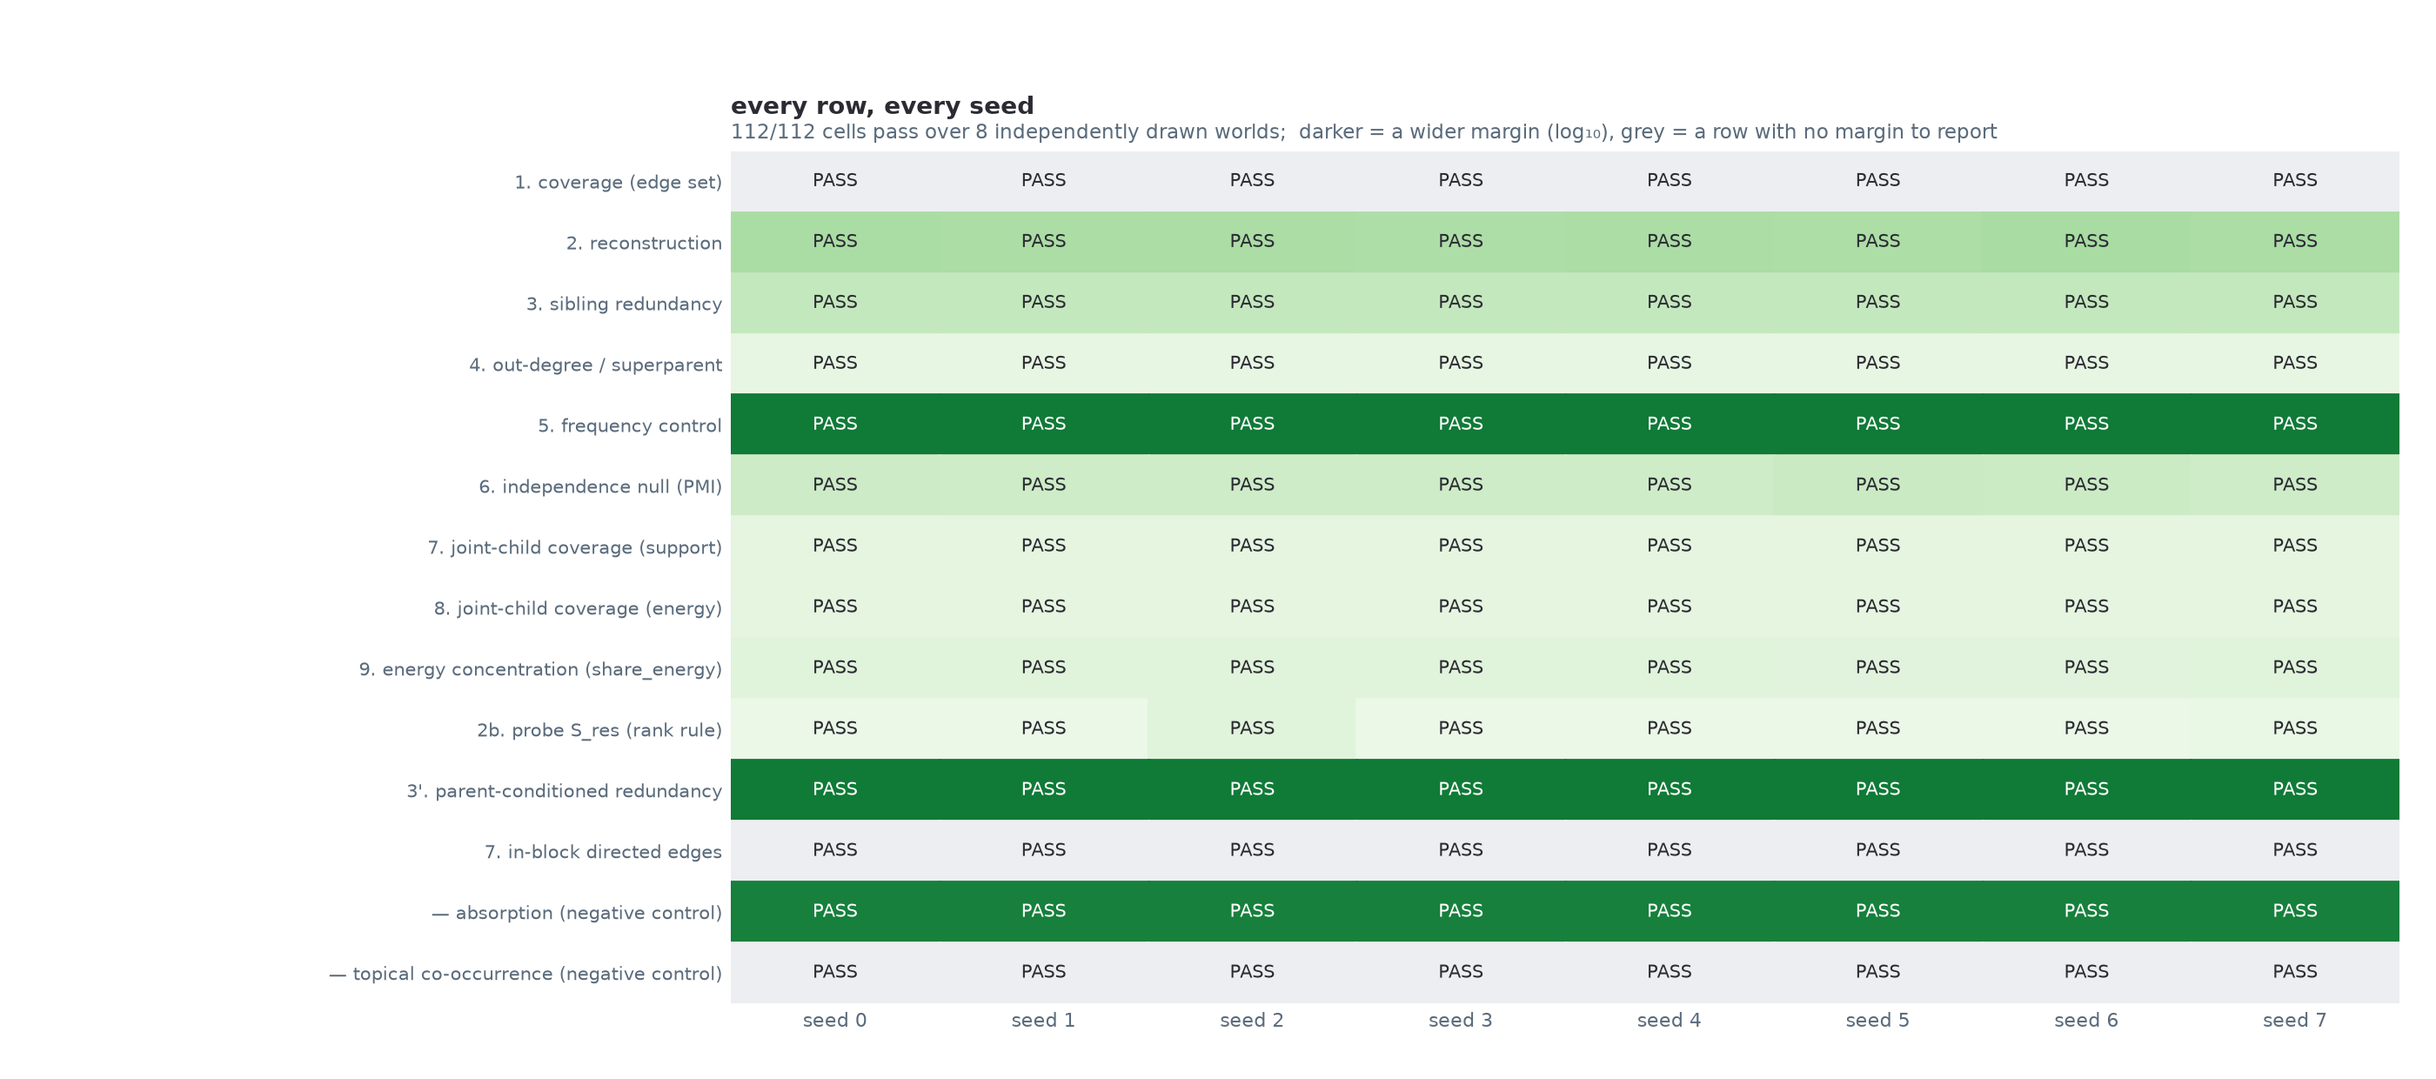
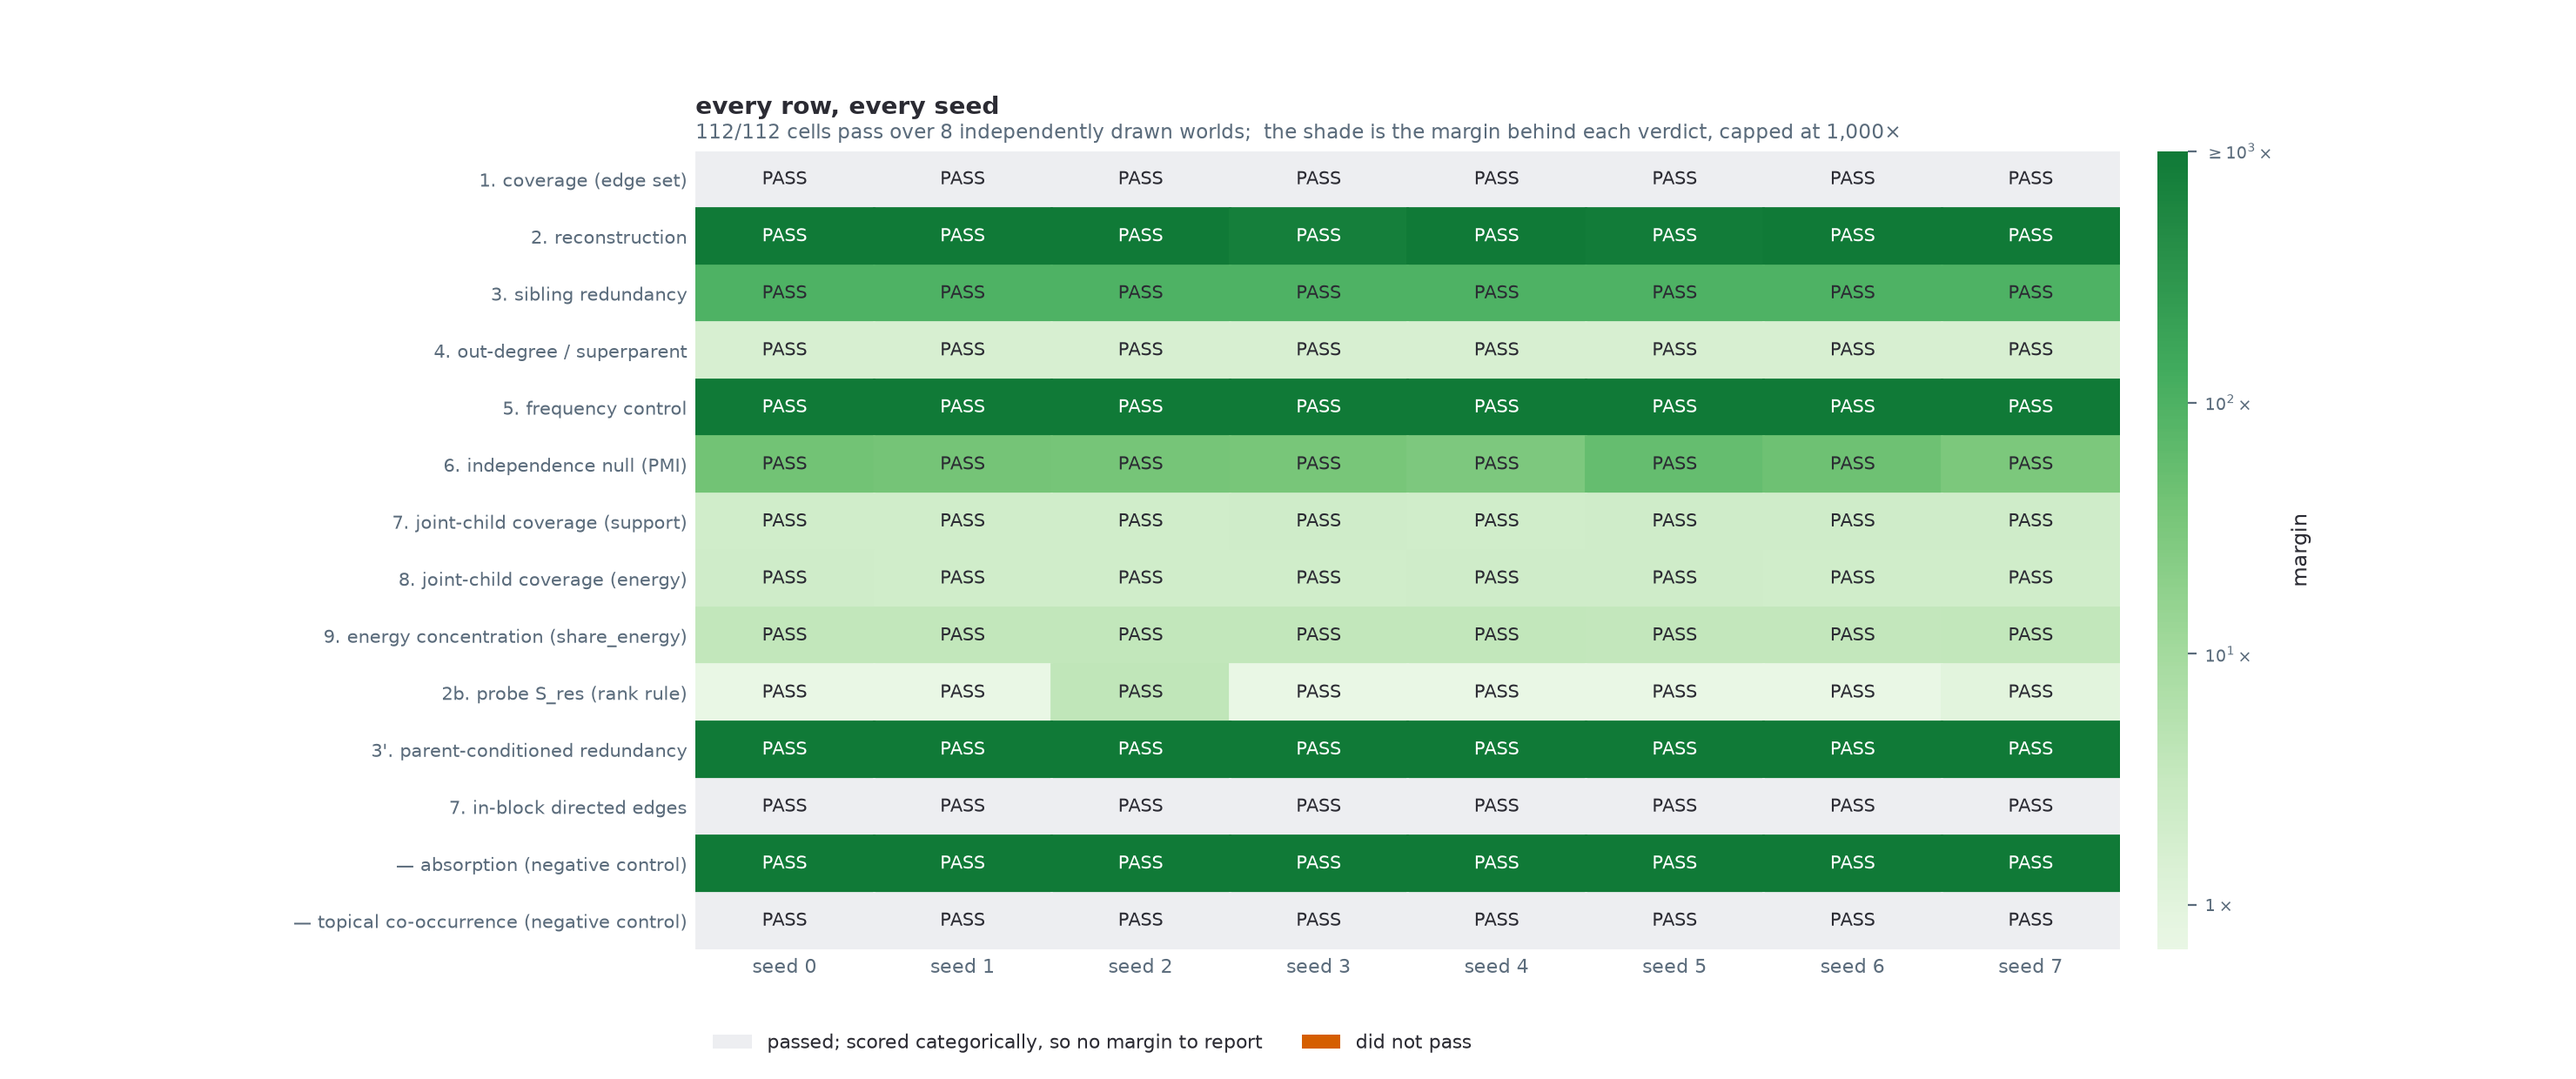
docs(reporting): improve calibration seed sweep figure clarity
Update the calibration seed sweep visualization to use a capped color scale
and include a descriptive colorbar. Previously, extreme outlier values
(e.g., $10^9$ due to epsilon guards) compressed the color ramp, making
most valid margins indistinguishable.

Changes:
- Cap the color scale at $10^3$ to preserve visual contrast for measured
  margins.
- Implement a custom colormap sub-range to avoid the palest/grey shades.
- Add a colorbar with intuitive labels (e.g., $10^x\times$) instead of
  raw log values.
- Update LaTeX documentation to explain the scale capping and the
  reasoning behind the $10^3$ ceiling.
- Regenerate the calibration seed sweep figure.

diff --git a/reporting/make_report_figures.py b/reporting/make_report_figures.py
@@ -1587,9 +1587,28 @@ def calibration_seed_sweep(sweep):
             M[i, j] = (np.nan if r.get("margin_kind") == "categorical"
                        else np.log10(max(mg, 1e-9)))
 
-    fig, ax = plt.subplots(figsize=(1.05 * len(seeds) + 5.6, 0.30 * len(names) + 2.0))
-    hi = np.nanmax(M) if not np.all(np.isnan(M)) else 1.0
-    cmap = plt.get_cmap("Greens")
+    from matplotlib import colors as mcolors
+
+    fig, ax = plt.subplots(figsize=(1.05 * len(seeds) + 6.4, 0.30 * len(names) + 2.0))
+    lo = float(np.nanmin(M)) if not np.all(np.isnan(M)) else 0.0
+    # Capped at 10^3, the same ceiling `calibrate_on_synthetic_toy._render` prints
+    # as ">1000x". Three rows here score 1e9, which is not a measured magnitude --
+    # it is the epsilon guard in the denominator when the rejected class scores
+    # zero. Letting that set the top of the scale pushed every honestly-measured
+    # margin into the palest two shades, so the ramp said nothing.
+    CAP = 3.0
+    hi = min(float(np.nanmax(M)) if not np.all(np.isnan(M)) else 1.0, CAP)
+    if hi <= lo:
+        hi = lo + 1.0
+    # The cells use a SUB-RANGE of Greens (never the palest end, where a shade
+    # stops being distinguishable from the "no margin" grey), so the colour bar
+    # has to be built from that same sub-range. Keying a bar to the full ramp
+    # while the cells use part of it would put a legend on the figure that reads
+    # the shades wrong -- which is worse than the missing legend it replaces.
+    base = plt.get_cmap("Greens")
+    cmap = mcolors.LinearSegmentedColormap.from_list(
+        "greens_sub", base(np.linspace(0.10, 0.82, 256)))
+    norm = mcolors.Normalize(vmin=lo, vmax=hi, clip=True)
     for i in range(len(names)):
         for j in range(len(seeds)):
             v = M[i, j]
@@ -1598,7 +1617,7 @@ def calibration_seed_sweep(sweep):
             elif np.isnan(v):
                 bg = "#EDEEF1"                    # categorical: passed, no margin
             else:
-                bg = cmap(0.10 + 0.72 * min(v / hi, 1.0))
+                bg = cmap(norm(v))
             ax.add_patch(plt.Rectangle((j, i), 1, 1, color=bg))
             ax.text(j + 0.5, i + 0.5, "PASS" if ok[i, j] else "FAIL",
                     ha="center", va="center", fontsize=7.4,
@@ -1616,11 +1635,40 @@ def calibration_seed_sweep(sweep):
     ax.tick_params(length=0)
 
     n_cells = ok.size
-    fig.subplots_adjust(left=0.30, right=0.985, top=0.86, bottom=0.07)
+    fig.subplots_adjust(left=0.27, right=0.855, top=0.86, bottom=0.12)
+
+    # The margin scale, which the shading was carrying with no key at all: a
+    # reader could see that some rows were darker and had no way to learn what
+    # the darkness was, or that a row scored categorically is grey rather than
+    # weak. Ticks are labelled as the margin itself (10^x) as well as its log,
+    # because "passes at 1000x" is the sentence the row supports and "3.0" is not.
+    TOP, POW, ONE = r"$\geq 10^{%d}\times$", r"$10^{%d}\times$", r"$1\times$"
+    sm = plt.cm.ScalarMappable(norm=norm, cmap=cmap)
+    cb = fig.colorbar(sm, ax=ax, fraction=0.030, pad=0.025, aspect=26)
+    ticks = list(range(int(np.ceil(lo)), int(np.floor(hi)) + 1))
+    if len(ticks) >= 2:
+        cb.set_ticks(ticks)
+        # labelled as the margin itself, not its logarithm: "passes at 100x" is
+        # the sentence a row supports and "2.0" is not. The top tick carries the
+        # cap, so a clipped cell is not read as a measured ceiling.
+        cb.set_ticklabels([(TOP % t if t == ticks[-1] and hi >= CAP
+                            else POW % t if t else ONE) for t in ticks])
+    cb.set_label("margin", fontsize=8.5, labelpad=6)
+    cb.ax.tick_params(labelsize=7)
+    cb.outline.set_visible(False)
+
+    # the two cell colours the ramp cannot express, named rather than guessed at
+    fig.legend(handles=[
+        plt.Rectangle((0, 0), 1, 1, facecolor="#EDEEF1", edgecolor="none",
+                      label="passed; scored categorically, so no margin to report"),
+        plt.Rectangle((0, 0), 1, 1, facecolor=CAT[3], edgecolor="none",
+                      label="did not pass"),
+    ], loc="lower left", bbox_to_anchor=(0.27, 0.008), ncol=2, frameon=False, fontsize=8)
+
     _panel_head(ax, "every row, every seed",
                 f"{int(ok.sum())}/{n_cells} cells pass over {len(seeds)} independently "
-                "drawn worlds;  darker = a wider margin (log₁₀), grey = a row with no "
-                "margin to report")
+                "drawn worlds;  the shade is the margin behind each verdict, capped at "
+                f"{10 ** CAP:,.0f}×")
     return _finish(fig, ax, "calibration_seed_sweep", tight=False)
 
 
@@ -3566,6 +3614,11 @@ def _captions():
             r"on, on a $\log_{10}$ scale, because the margins span orders of magnitude and "
             "a grid of identical verdicts would hide exactly that. A row that passes at a "
             "margin of $1.05$ and one that passes at $10^{3}$ are not the same evidence. "
+            r"The scale is capped at $10^{3}\times$, the same ceiling the scorecard itself "
+            r"prints as \texttt{>1000x}: three rows score $10^{9}$, which is not a measured "
+            "magnitude but the guard in the denominator when the rejected class scores zero, "
+            "and letting it set the top of the ramp pushed every honestly-measured margin "
+            "into the palest two shades. "
             "Rows scored categorically have no magnitude to report and are left grey rather "
             "than given an invented one. Everything else in this appendix is reported at "
             "seed 0; this is the figure that says what that number is worth.")

diff --git a/outputs/paper_figuers/figures.tex b/outputs/paper_figuers/figures.tex
@@ -247,7 +247,11 @@
     verdict and the shade carries the margin: how decisively that metric separated the two
     classes it was graded on, on a $\log_{10}$ scale, because the margins span orders of
     magnitude and a grid of identical verdicts would hide exactly that. A row that passes at a
-    margin of $1.05$ and one that passes at $10^{3}$ are not the same evidence. Rows scored
+    margin of $1.05$ and one that passes at $10^{3}$ are not the same evidence. The scale is
+    capped at $10^{3}\times$, the same ceiling the scorecard itself prints as \texttt{>1000x}:
+    three rows score $10^{9}$, which is not a measured magnitude but the guard in the
+    denominator when the rejected class scores zero, and letting it set the top of the ramp
+    pushed every honestly-measured margin into the palest two shades. Rows scored
     categorically have no magnitude to report and are left grey rather than given an invented
     one. Everything else in this appendix is reported at seed 0; this is the figure that says
     what that number is worth.
